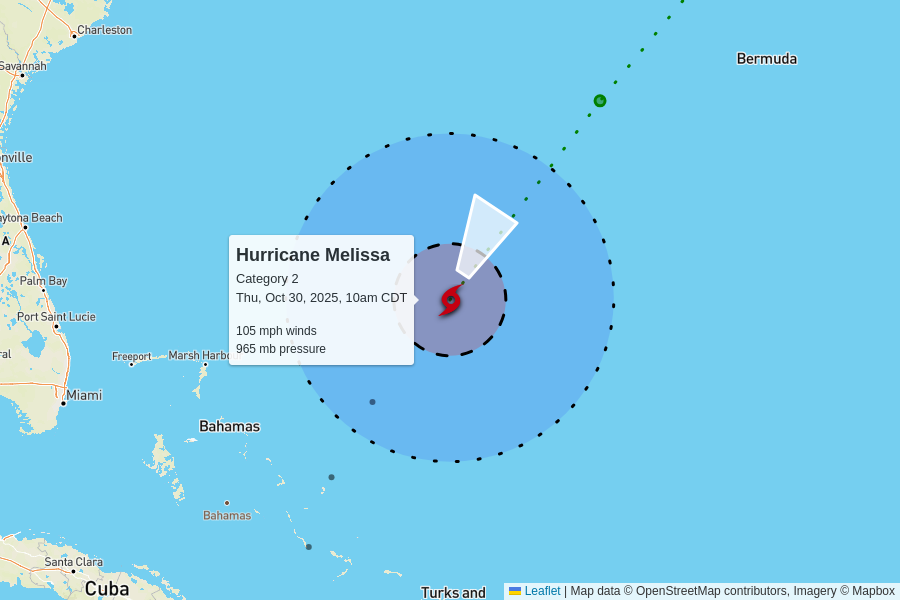
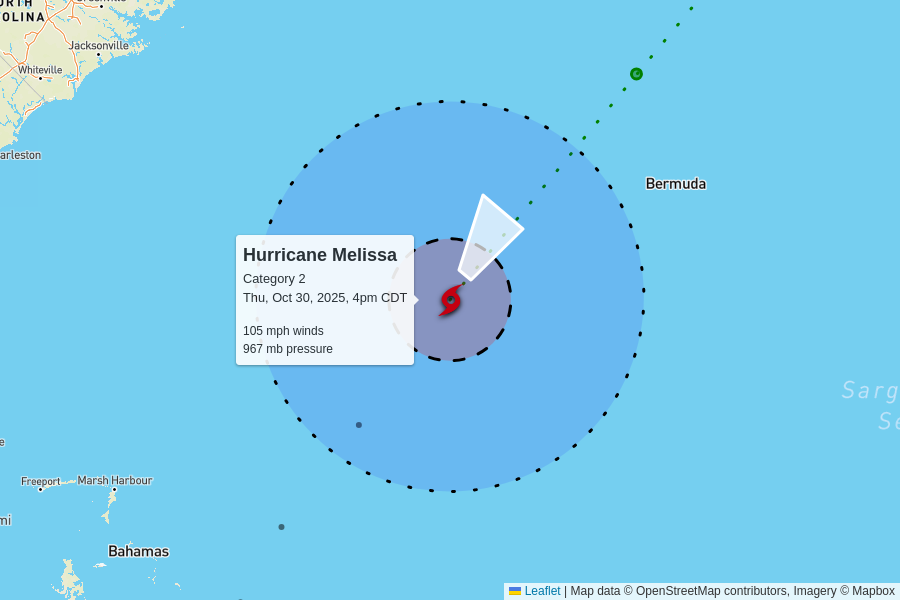
automatic update

diff --git a/docs/index.html b/docs/index.html
@@ -102,7 +102,7 @@
         <td colspan="6" class="storm category-2" >
           <h2>
             Hurricane Melissa - Category 2
-            <p class="updated">last updated <span data-time>2025-10-30T15:00:00.000Z</span></p>
+            <p class="updated">last updated <span data-time>2025-10-30T21:00:00.000Z</span></p>
           </h2>
         </td>
       </tr>
@@ -118,11 +118,11 @@
       <tr>
         <td class="spacer"></td>
         <td>105 mph<br>0 mph since last update</td>
-        <td>965 mb<br>-3 mb since last update</td>
+        <td>967 mb<br>+2 mb since last update</td>
         <td>
-          24 mph to the north-northeast
+          31 mph to the northeast
           <br/>
-          <span style="display: inline-block; font-size: 1.5em; transform: rotate(30deg);">↑</span>
+          <span style="display: inline-block; font-size: 1.5em; transform: rotate(35deg);">↑</span>
         </td>
         <td><a href="https://raw.githubusercontent.com/mgwalker/atlantic-hurricanes/main/data/csv/AL132025.csv">AL132025.csv</a></td>
         <td><a href="https://www.nhc.noaa.gov/archive/2025/MELISSA.shtml?">NHC advisories</a></td>
